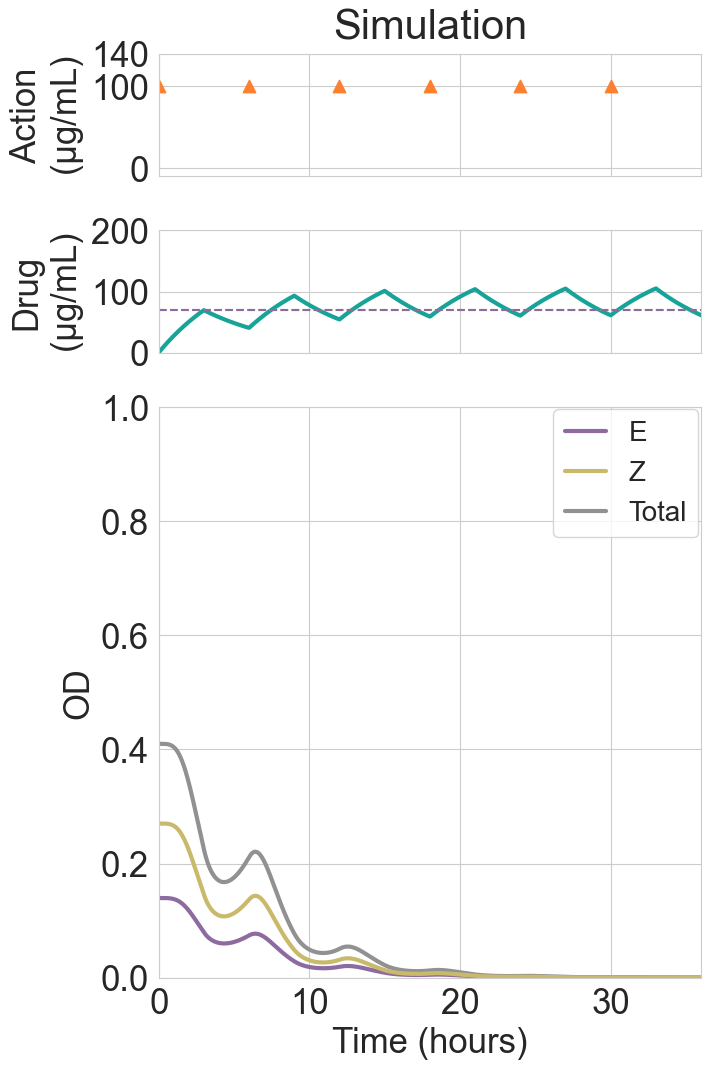
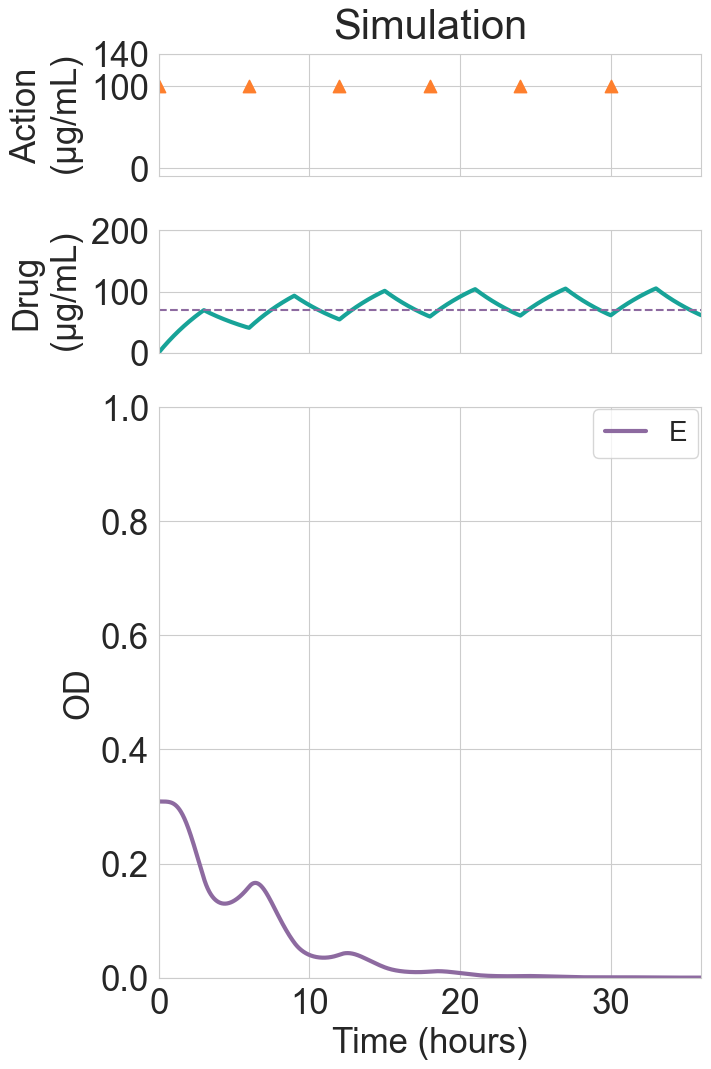
re-simulated examples for drug_mono

Changed region(s): [[0.2166, 0.71, 0.7736, 0.9261], [0.7736, 0.4013, 0.9902, 0.4939], [0.2166, 0.6791, 0.2475, 0.71]]

diff --git a/simulate_examples.py b/simulate_examples.py
@@ -42,7 +42,9 @@ for e in exp_names:
         env_param_dict = json.load(f)
     
     env = BacterialEnv(param_dict=env_param_dict, sampling_time=timestep, state_method="cont_E")
-    env.reset_2_coexist_equilibrium()
+    
+    if e != "drug_mono":
+        env.reset_2_coexist_equilibrium()
 
     while env.tSol[-1] < sim_time:
         if (e != "nodrug"):
